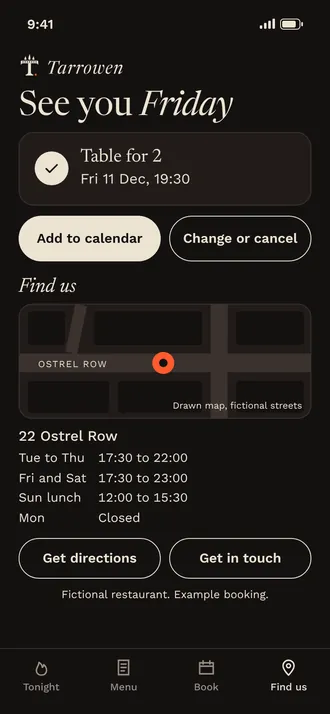
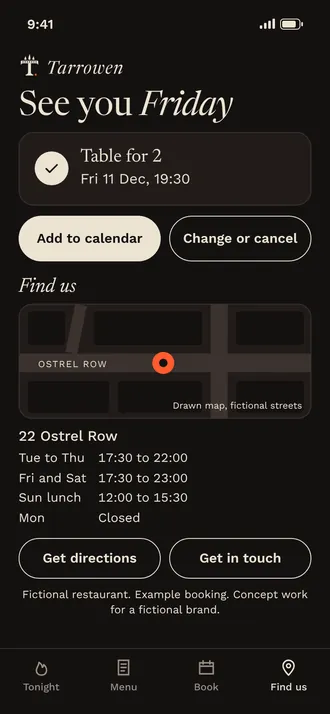
fix(library): Tarrowen and Orlune Dental review fixes
Marketing's and the reviewer's checks on PR #32:
- Tarrowen: tonight's hours now match the other screens (17:30 to
  22:00); the menu and confirmation notes add the concept label; the
  design note and the printed menu alt are reworded.
- Orlune Dental: the home title is now "What would you like to book?"
  (away from Caravie's); plainer lines for the night guard and the
  children's check-up; the prices alt starts at $35; the type design
  note names body text, buttons and times.

Claude-Session: https://claude.ai/code/session_01WkeDyerSaew5owbp2qeM8U

Changed region(s): [[0.1818, 0.8011, 0.8182, 0.8627], [0.8485, 0.8319, 0.9091, 0.8627], [0.0909, 0.8319, 0.1515, 0.8627]]

diff --git a/src/content/library.js b/src/content/library.js
@@ -108,13 +108,13 @@ export const library = [
     choices: [
       "Newsreader italic and Work Sans on warm charcoal: an editorial menu, not a poster.",
       "The logo is a serif T whose crossbar is a grill bar, with three flames and one ember dot.",
-      "Ember orange is the one hot colour: one button or dot per screen, with charcoal text on it.",
+      "Ember orange is the one hot colour: kept to buttons, the fire and the ember dot, with charcoal text on the buttons.",
     ],
     mobile: [
       appScreen(
         "tarrowen",
         "tonight",
-        "Tarrowen's Tonight screen on a phone: a drawn fire under a grill, \"Tonight at Tarrowen\", Dinner 17:30 to 22:30, a Tables left tonight card with 18:00, 19:30 and 21:15 (sample times), Book a table and See the menu buttons, and the line Walk-ins welcome at the bar.",
+        "Tarrowen's Tonight screen on a phone: a drawn fire under a grill, \"Tonight at Tarrowen\", Dinner 17:30 to 22:00, a Tables left tonight card with 18:00, 19:30 and 21:15 (sample times), Book a table and See the menu buttons, and the line Walk-ins welcome at the bar.",
       ),
       appScreen(
         "tarrowen",
@@ -159,7 +159,7 @@ export const library = [
         "mockup-menu",
         1600,
         1200,
-        "An illustration of a tall parchment menu on a dark clipboard, on a dark wood table with a glass, a knife and a fork: the Tarrowen wordmark, the autumn menu in four sections and the stamp at the foot. Example prices.",
+        "An illustration of a tall parchment menu on a dark clipboard, on a dark wood table with a glass and cutlery: the Tarrowen wordmark, the autumn menu in four sections and the stamp at the foot. Example prices.",
         "The printed menu. An illustration, drawn in code.",
       ),
       pic(
@@ -195,14 +195,14 @@ export const library = [
     summary: "A booking app and website for a neighbourhood dental clinic, with its logo, an appointment card and a door sign.",
     choices: [
       "White first, with mint fills and deep navy buttons: calm, and easy to read.",
-      "Atkinson Hyperlegible for every word people read, and every button and time at least 56 px tall.",
+      "Atkinson Hyperlegible for body text, buttons and times, and every button and time at least 56 px tall.",
       "The logo is a mint ring with a small navy crescent in it, like light catching a curve. No tooth cartoon.",
     ],
     mobile: [
       appScreen(
         "orlune",
         "home",
-        "Orlune Dental's home screen on a phone: \"How can we help today?\" with four large mint tiles, each with an icon and a word (Check-up, Clean and polish, Toothache or urgent, Children's visit), the next visit on Tue 8 Dec at 09:40 with a Change link, a Book a visit button and a tab bar with words.",
+        "Orlune Dental's home screen on a phone: \"What would you like to book?\" with four large mint tiles, each with an icon and a word (Check-up, Clean and polish, Toothache or urgent, Children's visit), the next visit on Tue 8 Dec at 09:40 with a Change link, a Book a visit button and a tab bar with words.",
       ),
       appScreen(
         "orlune",
@@ -217,7 +217,7 @@ export const library = [
       appScreen(
         "orlune",
         "prices",
-        "Orlune Dental's prices screen: six treatments, each with one plain line, from a check-up and X-rays at $60 to whitening from $280, and the line We tell you the price before we start. Example prices. Fictional clinic.",
+        "Orlune Dental's prices screen: six treatments, each with one plain line, from a children's check-up at $35 to whitening from $280, and the line We tell you the price before we start. Example prices. Fictional clinic.",
       ),
     ],
     desktop: [
